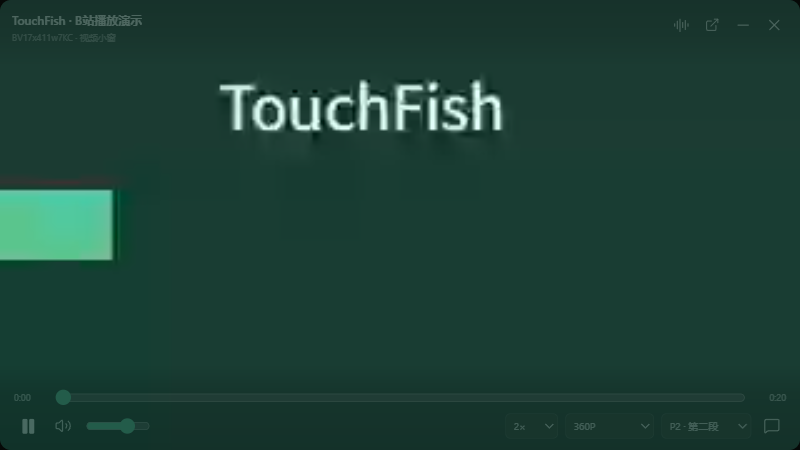
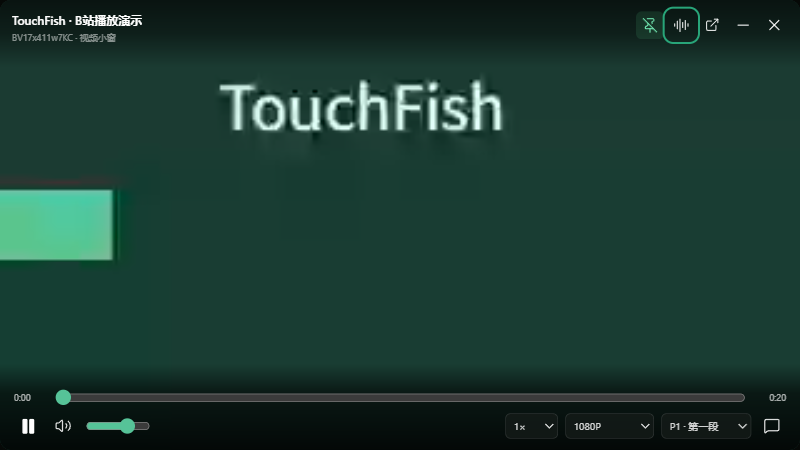
Add optional player pin and release v1.6.1

Changed region(s): [[0.0, 0.84, 1.0, 1.0], [0.0, 0.0, 1.0, 0.1244]]

diff --git a/src/BiliPlayer.tsx b/src/BiliPlayer.tsx
@@ -1,5 +1,5 @@
 import { useCallback, useEffect, useRef, useState } from "react";
-import { AudioLines, ExternalLink, LoaderCircle, MessageSquare, Minus, Pause, Play, RefreshCw, Volume2, VolumeX, X } from "lucide-react";
+import { AudioLines, ExternalLink, LoaderCircle, MessageSquare, Minus, Pause, Pin, PinOff, Play, RefreshCw, Volume2, VolumeX, X } from "lucide-react";
 import type { BiliDanmaku, BiliMode, BiliPlayback, BiliPlayRequest } from "./bilibili-types";
 import "./bilibili.css";
 
@@ -97,6 +97,9 @@ export default function BiliPlayer() {
   const [playing, setPlaying] = useState(false);
   const [buffering, setBufferingValue] = useState(false);
   const [busy, setBusy] = useState(false);
+  const [alwaysOnTop, setAlwaysOnTop] = useState(false);
+  const [pinBusy, setPinBusy] = useState(false);
+  const [pinError, setPinError] = useState("");
   const [time, setTime] = useState(0);
   const [duration, setDuration] = useState(0);
   const [volume, setVolume] = useState(0.7);
@@ -246,6 +249,29 @@ export default function BiliPlayer() {
       for (const element of [video.current, audio.current]) element?.pause();
     };
   }, [api]);
+
+  useEffect(() => {
+    if (!api) return;
+    let active = true;
+    let revision = 0;
+    const off = api.onPlayerState(state => {
+      revision++;
+      if (active) setAlwaysOnTop(state.alwaysOnTop);
+    });
+    void api.getPlayerState().then(state => {
+      if (active && revision === 0) setAlwaysOnTop(state.alwaysOnTop);
+    }).catch(() => {});
+    return () => { active = false; off(); };
+  }, [api]);
+
+  const togglePin = async () => {
+    if (!api || pinBusy) return;
+    setPinBusy(true);
+    setPinError("");
+    try { await api.setAlwaysOnTop(!alwaysOnTop); }
+    catch (cause) { setPinError(errorMessage(cause, "置顶设置失败，请重试。")); }
+    finally { setPinBusy(false); }
+  };
 
   useEffect(() => {
     generation.current++;
@@ -509,8 +535,9 @@ export default function BiliPlayer() {
       {(buffering || busy) && !error && <div className="bili-buffering" role="status"><LoaderCircle size={25} className="bili-spinning" /><span>{busy ? "正在切换…" : "正在缓冲…"}</span></div>}
       {error && <div className="bili-player-error" role="alert"><strong>暂时无法播放</strong><p>{error}</p><div><button onClick={reload} disabled={busy || !playback}><RefreshCw size={14} />重试播放</button><button onClick={() => void api?.openVideoPage().catch(() => {})} disabled={!playback}><ExternalLink size={14} />原站查看</button></div></div>}
       <div className="bili-chrome bili-player-top">
-        <div className="bili-player-title" title={playback?.video.title}>{playback?.video.title || "B 站播放器"}<small>{playback ? `${playback.video.bvid} · ${audioMode ? "只听音频" : "视频小窗"}` : "摸鱼时钟"}</small></div>
+        <div className="bili-player-title" title={playback?.video.title}>{playback?.video.title || "B 站播放器"}<small>{playback ? `${playback.video.bvid} · ${audioMode ? "只听音频" : "视频小窗"}` : "摸鱼时钟"}</small>{pinError && <small role="status">{pinError}</small>}</div>
         <div className="bili-window-actions">
+          <button className={alwaysOnTop ? "selected" : ""} title={alwaysOnTop ? "取消置顶" : "置顶播放器"} aria-label={alwaysOnTop ? "取消置顶" : "置顶播放器"} aria-pressed={alwaysOnTop} disabled={!api || pinBusy} onClick={() => void togglePin()}>{alwaysOnTop ? <PinOff size={16} /> : <Pin size={16} />}</button>
           <button title={audioMode ? "切换到视频" : "只听音频"} aria-label={audioMode ? "切换到视频" : "只听音频"} onClick={() => void modeSwitch()} disabled={busy || !playback}><AudioLines size={16} /></button>
           <button title="在B站查看" aria-label="在B站查看" onClick={() => void api?.openVideoPage().catch(() => {})} disabled={!playback}><ExternalLink size={15} /></button>
           <button title="最小化" aria-label="最小化播放器" onClick={() => api?.minimizePlayer()}><Minus size={17} /></button>

diff --git a/electron/bilibili-window.ts b/electron/bilibili-window.ts
@@ -12,7 +12,7 @@ interface PlayerWindowOptions {
   onTransportState: (state: BiliTransportState) => void;
 }
 
-/** A normal desktop window: other applications and dialogs can cover it. */
+/** A normal desktop window with an optional, per-window pin above other apps. */
 export function createBilibiliWindow(options: PlayerWindowOptions) {
   let window: BrowserWindow | null = null;
   let loading: Promise<void> | null = null;
@@ -41,6 +41,7 @@ export function createBilibiliWindow(options: PlayerWindowOptions) {
     mode: current?.mode ?? "video",
     bvid: current?.video.bvid ?? null,
     title: current?.video.title ?? "",
+    alwaysOnTop: !!window && !window.isDestroyed() && window.isAlwaysOnTop(),
   });
   const publish = () => options.onState(getState());
 
@@ -147,6 +148,7 @@ export function createBilibiliWindow(options: PlayerWindowOptions) {
     player.setMenu(null);
     player.on("page-title-updated", event => event.preventDefault());
     player.on("system-context-menu", event => event.preventDefault());
+    player.on("always-on-top-changed", publish);
     player.webContents.setWindowOpenHandler(() => ({ action: "deny" }));
     player.webContents.on("will-navigate", event => event.preventDefault());
     player.webContents.on("will-attach-webview", event => event.preventDefault());
@@ -179,6 +181,15 @@ export function createBilibiliWindow(options: PlayerWindowOptions) {
   return {
     open,
     getState,
+    setAlwaysOnTop: (enabled: unknown): BiliPlayerState => {
+      if (typeof enabled !== "boolean") throw new Error("置顶设置无效。");
+      if (privacyPaused) throw new Error("摸鱼窗口已收起，请先从托盘恢复窗口。");
+      if (!window || window.isDestroyed()) throw new Error("请先打开播放器。");
+      // Changing the stacking level must not show, focus or resume the window.
+      window.setAlwaysOnTop(enabled);
+      publish();
+      return getState();
+    },
     getPlayback: () => current,
     getTransportState: () => publicTransport(transport.getState()),
     setPlaying: (playing: unknown, revision: unknown) => privacyPaused && playing === true

diff --git a/electron/preload.ts b/electron/preload.ts
@@ -91,6 +91,7 @@ contextBridge.exposeInMainWorld("touchFish", {
     play: (request: BiliPlayRequest): Promise<BiliPlayback> => ipcRenderer.invoke("bilibili:play", request),
     getPlayback: (): Promise<BiliPlayback | null> => ipcRenderer.invoke("bilibili:playback"),
     getPlayerState: (): Promise<BiliPlayerState> => ipcRenderer.invoke("bilibili:player-state"),
+    setAlwaysOnTop: (enabled: boolean): Promise<BiliPlayerState> => ipcRenderer.invoke("bilibili:always-on-top", enabled),
     getTransportState: (): Promise<BiliTransportState> => ipcRenderer.invoke("bilibili:transport-state"),
     setPlaying: (playing: boolean, expectedRevision: number): Promise<BiliTransportState> => ipcRenderer.invoke("bilibili:set-playing", playing, expectedRevision),
     reportTransportState: (state: BiliTransportReport, commandId?: number): void => ipcRenderer.send("bilibili:transport-report", state, commandId),

diff --git a/electron/main.ts b/electron/main.ts
@@ -701,6 +701,11 @@ function registerIpc(): void {
   ipcMain.handle("bilibili:play", (event, request: unknown) => { assertMediaSender(event); return playBilibili(request, trustedSender(event)); });
   ipcMain.handle("bilibili:playback", (event) => { assertMediaSender(event); return player?.getPlayback() ?? null; });
   ipcMain.handle("bilibili:player-state", (event) => { assertMediaSender(event); return player!.getState(); });
+  ipcMain.handle("bilibili:always-on-top", (event, enabled: unknown) => {
+    assertMediaSender(event);
+    assertLeisureAvailable();
+    return player!.setAlwaysOnTop(enabled);
+  });
   ipcMain.handle("bilibili:transport-state", event => { assertTransportSender(event); return player!.getTransportState(); });
   ipcMain.handle("bilibili:set-playing", (event, playing: unknown, revision: unknown) => {
     assertTransportSender(event);

diff --git a/src/BilibiliPanel.tsx b/src/BilibiliPanel.tsx
@@ -8,7 +8,7 @@ const initialAuth: BiliAuthState = {
   status: "loading", loggedIn: false, user: null, qrDataUrl: null,
   expiresAt: null, message: "正在读取登录状态…",
 };
-const initialPlayer: BiliPlayerState = { open: false, mode: "video", title: "", bvid: null };
+const initialPlayer: BiliPlayerState = { open: false, mode: "video", title: "", bvid: null, alwaysOnTop: false };
 
 function friendlyError(error: unknown, fallback: string): string {
   const message = error instanceof Error ? error.message.replace(/^Error invoking remote method '[^']+':\s*(?:Error:\s*)?/, "") : "";

diff --git a/src/bilibili-types.ts b/src/bilibili-types.ts
@@ -31,7 +31,7 @@ export interface BiliPlayback {
   expiresAt: number;
 }
 export interface BiliDanmaku { time: number; text: string; color: number; mode: number }
-export interface BiliPlayerState { open: boolean; mode: BiliMode; title: string; bvid: string | null }
+export interface BiliPlayerState { open: boolean; mode: BiliMode; title: string; bvid: string | null; alwaysOnTop: boolean }
 
 /** Minimal, non-sensitive media status shared with the wage companion. */
 export interface BiliTransportReport {

diff --git a/src/env.d.ts b/src/env.d.ts
@@ -39,6 +39,7 @@ declare global {
         play(request: BiliPlayRequest): Promise<BiliPlayback>;
         getPlayback(): Promise<BiliPlayback | null>;
         getPlayerState(): Promise<BiliPlayerState>;
+        setAlwaysOnTop(enabled: boolean): Promise<BiliPlayerState>;
         getTransportState(): Promise<BiliTransportState>;
         setPlaying(playing: boolean, expectedRevision: number): Promise<BiliTransportState>;
         reportTransportState(state: BiliTransportReport, commandId?: number): void;
